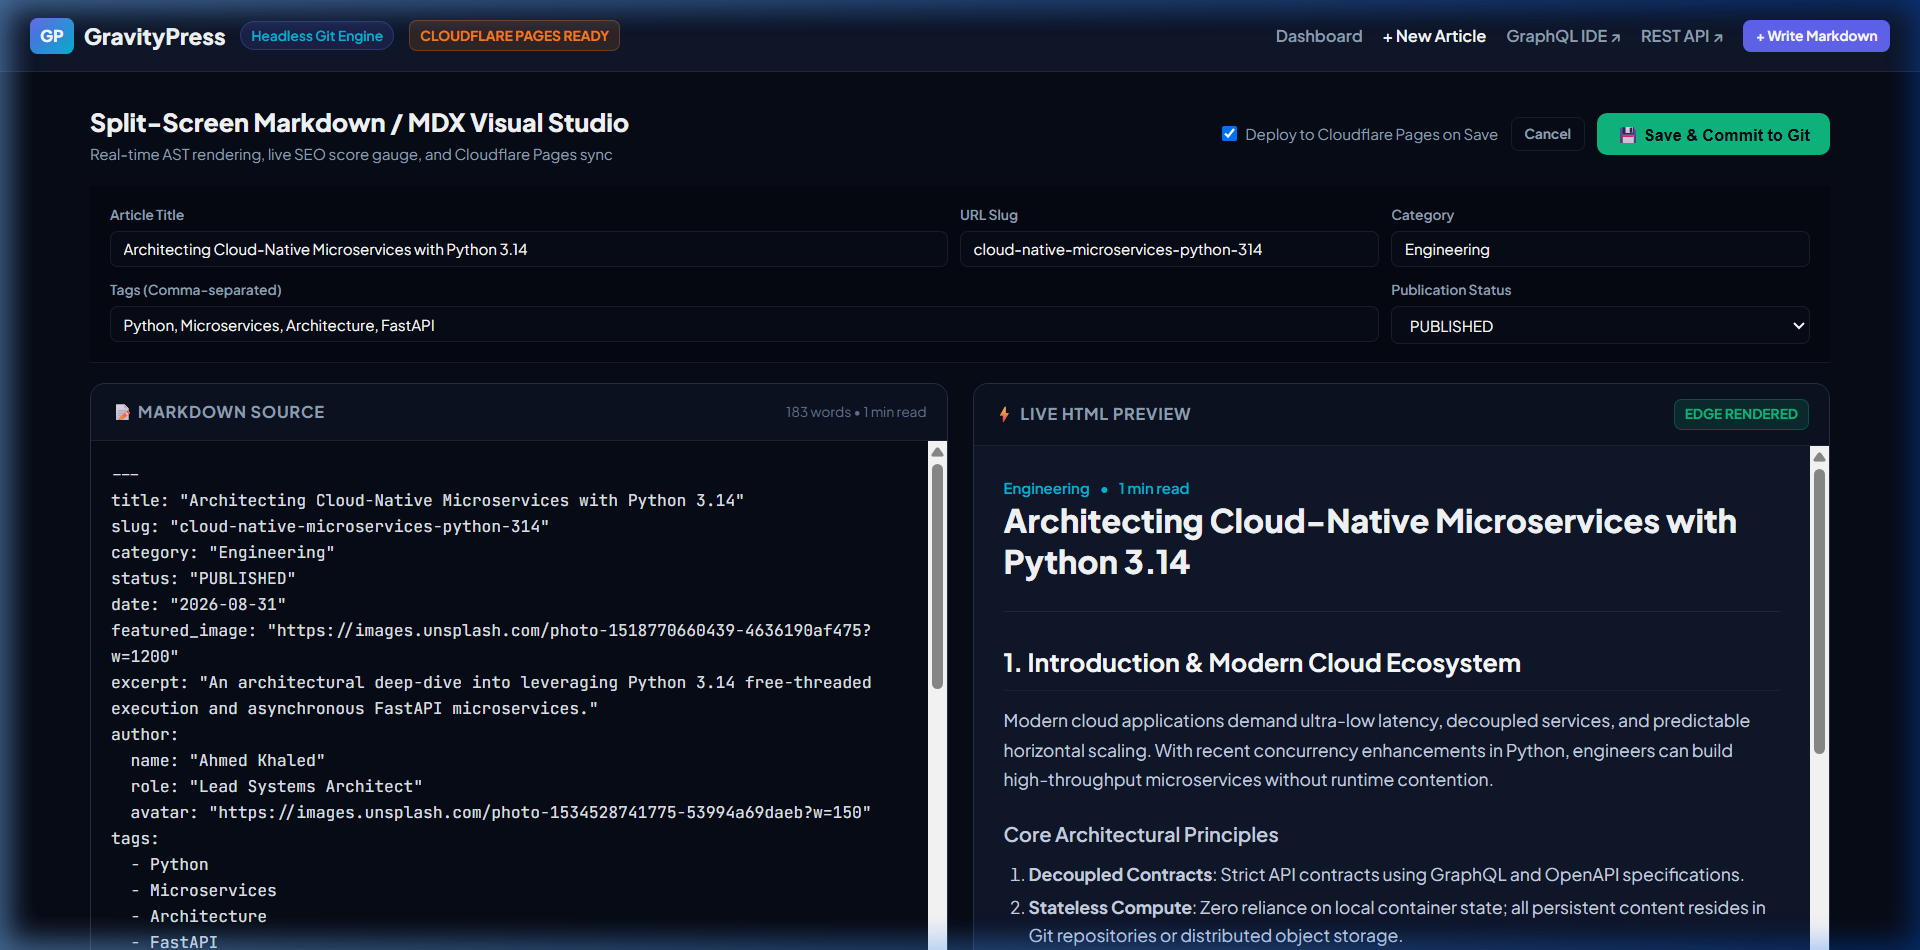
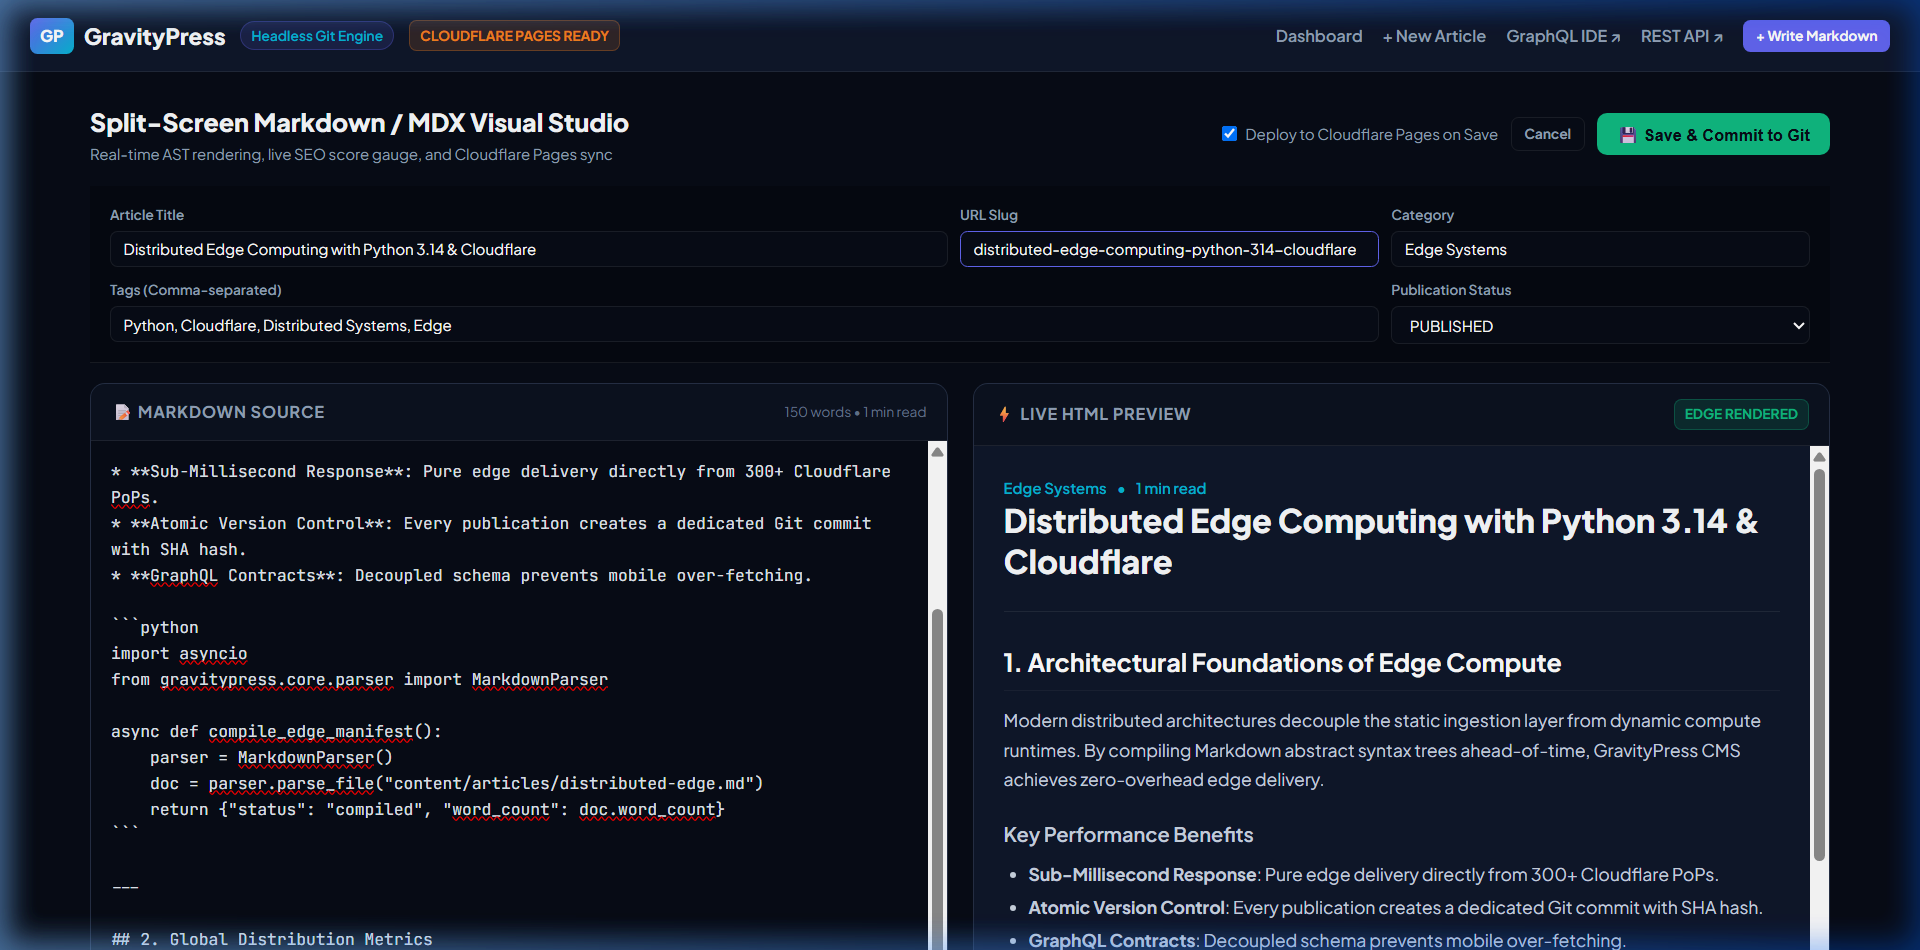
docs: update clean screenshots without focus outlines and sync newly authored edge computing article

diff --git a/src/gravitypress/web/templates/editor.html b/src/gravitypress/web/templates/editor.html
@@ -130,22 +130,22 @@
     <div class="metadata-form">
         <div class="form-group">
             <label>Article Title</label>
-            <input type="text" name="title" id="artTitle" class="form-input" value="{{ doc.metadata.title|default('Architecting Cloud-Native Microservices with Python 3.14') }}" required oninput="updatePreview()">
+            <input type="text" name="title" id="artTitle" class="form-input" value="{% if doc %}{{ doc.metadata.title }}{% else %}Architecting Cloud-Native Microservices with Python 3.14{% endif %}" required oninput="updatePreview()">
         </div>
 
         <div class="form-group">
             <label>URL Slug</label>
-            <input type="text" name="slug" id="artSlug" class="form-input" value="{{ doc.metadata.slug|default('cloud-native-microservices-python-314') }}" required>
+            <input type="text" name="slug" id="artSlug" class="form-input" value="{% if doc %}{{ doc.metadata.slug }}{% else %}cloud-native-microservices-python-314{% endif %}" required>
         </div>
 
         <div class="form-group">
             <label>Category</label>
-            <input type="text" name="category" id="artCat" class="form-input" value="{{ doc.metadata.category|default('Engineering') }}">
+            <input type="text" name="category" id="artCat" class="form-input" value="{% if doc %}{{ doc.metadata.category }}{% else %}Engineering{% endif %}">
         </div>
 
         <div class="form-group" style="grid-column: span 2;">
             <label>Tags (Comma-separated)</label>
-            <input type="text" name="tags" class="form-input" value="{{ doc.metadata.tags|join(', ')|default('Python, Microservices, Cloudflare, Architecture') }}">
+            <input type="text" name="tags" class="form-input" value="{% if doc %}{{ doc.metadata.tags|join(', ') }}{% else %}Python, Microservices, Cloudflare, Architecture{% endif %}">
         </div>
 
         <div class="form-group">
@@ -165,7 +165,7 @@
                 <span class="pane-title">📝 Markdown Source</span>
                 <span id="wordStats" style="font-size: 11px; color: var(--text-dim);">0 words • 1 min read</span>
             </div>
-            <textarea name="markdown_content" id="mdInput" class="markdown-textarea" placeholder="Type your markdown content here..." oninput="updatePreview()">{{ doc.raw_markdown|default(initial_markdown) }}</textarea>
+            <textarea name="markdown_content" id="mdInput" class="markdown-textarea" placeholder="Type your markdown content here..." oninput="updatePreview()">{% if doc %}{{ doc.raw_markdown }}{% else %}{{ initial_markdown }}{% endif %}</textarea>
             <div class="seo-bar">
                 <span>Git Tracking: <strong class="text-emerald">Active</strong></span>
                 <span>Format: <strong>CommonMark / MDX</strong></span>

diff --git a/README.md b/README.md
@@ -23,7 +23,7 @@
 ### 1. Admin Control Center & Split-Screen Markdown Studio
 | Content Repository Inventory & Cloudflare Controls | Real-time AST Live Preview & Live SEO Gauge |
 | :---: | :---: |
-| ![Admin Dashboard](docs/assets/01_admin_dashboard.png) | ![Markdown Studio](docs/assets/02_markdown_studio.png) |
+| ![Admin Dashboard](docs/assets/05_published_dashboard.png) | ![Markdown Studio](docs/assets/02_markdown_studio.png) |
 
 ### 2. Interactive GraphQL IDE & Decoupled REST API
 | Strawberry GraphiQL Query Explorer (`/graphql`) | High-Throughput REST API (`/api/v1/content/`) |
